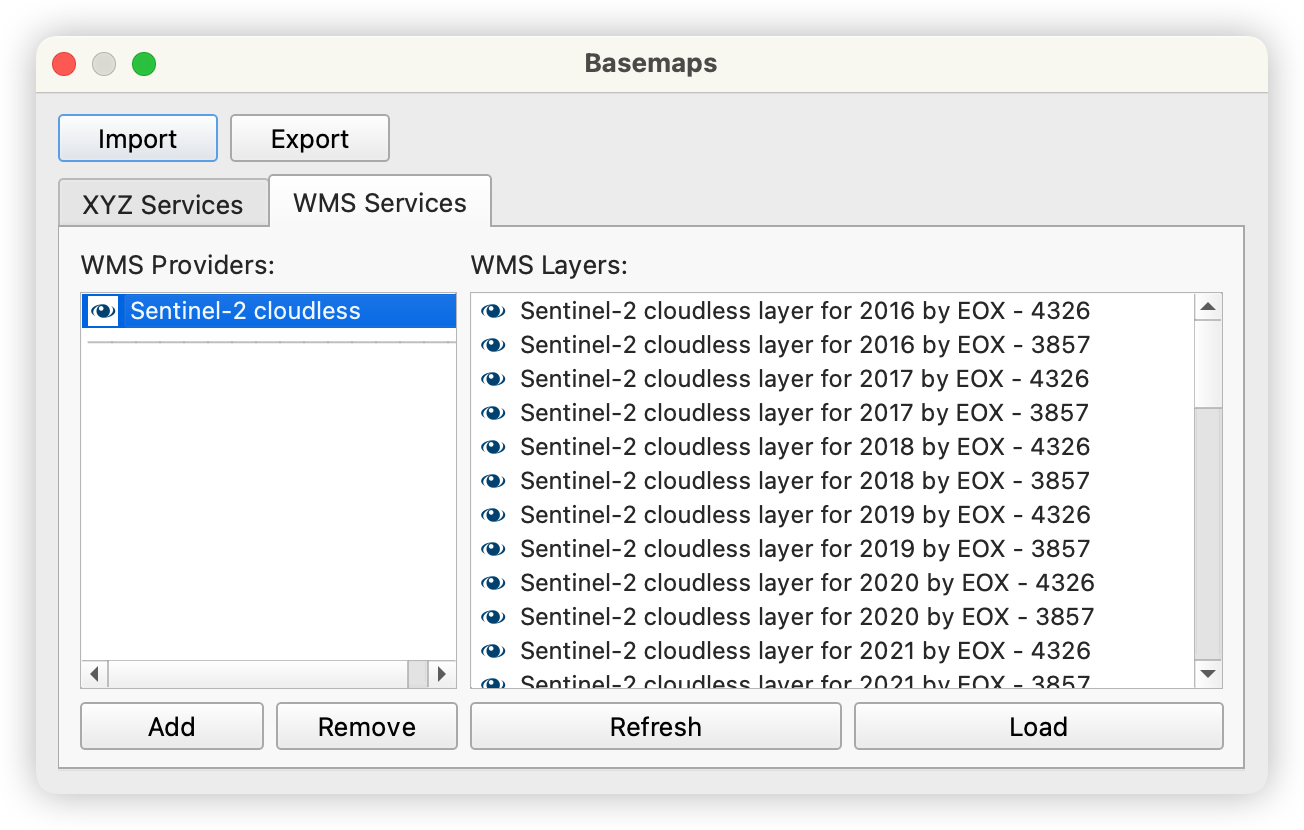
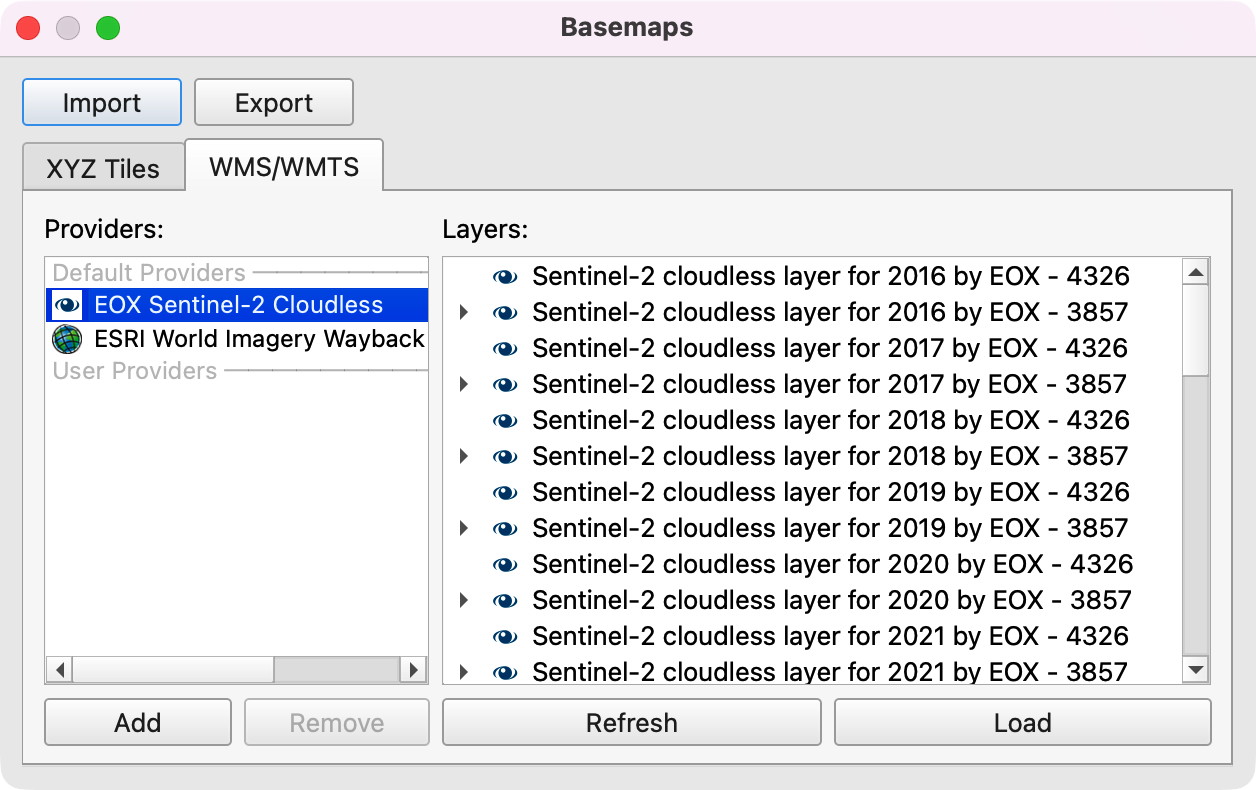
docs: Update README with enhanced feature descriptions, installation, and usage guides, and refresh associated screenshots.

Changed region(s): [[0.0, 0.0, 0.9936, 0.9722]]

diff --git a/README.md b/README.md
@@ -4,10 +4,47 @@ A QGIS plugin that provides easy access to multiple well-known online basemap se
 
 ## Features
 
+- **Pre-integrated Popular Basemap Providers**: Includes well-known basemaps such as `ESRI`, `Google Maps`, `Bing Maps`, `OpenStreetMap`, `Sentinel-2 Cloudless`, and more.
+- **Wide Compatibility**: Fully supports **QGIS 3.x** and **QGIS 4.x** versions.
+- **Multi-language Support**: Available in multiple languages including `English`, `Chinese (Simplified)`, `Japanese`, `Korean`, `French`, `German`, `Russian`, and `Arabic`.
 
-- **Pre-integrated Popular Basemap Providers**: Includes well-known basemaps such as `Sentinel-2 Cloudless`, `ESRI`, `Google Maps`, `Bing Maps`, `OpenStreetMap`, and more.
+- **Intuitive Management**: Easily add, edit, and remove custom basemap services.
+- **Import/Export Functionality**: Share your custom basemap configurations with others easily using the import/export feature (supports ZIP files).
+- **Asynchronous Loading**: Fetches WMS/WMTS capabilities in the background ensuring the UI remains responsive.
 
-- **Intuitive Basemap Management Interface**: Easily add/remove basemaps and import/export configurations with a user-friendly interface.
+
+## Installation
+
+### Via QGIS Plugin Manager (Recommended)
+1. Open QGIS.
+2. Go to `Plugins` -> `Manage and Install Plugins...`.
+3. Select the `All` tab.
+4. Search for `Basemaps`.
+5. Click `Install Plugin`.
+
+### Manual Installation
+1. Download the source code.
+2. Extract the folder to your QGIS plugins directory:
+   - **Windows**: `%APPDATA%\QGIS\QGIS3\profiles\default\python\plugins\`
+   - **macOS**: `~/Library/Application Support/QGIS/QGIS3/profiles/default/python/plugins/`
+   - **Linux**: `~/.local/share/QGIS/QGIS3/profiles/default/python/plugins/`
+
+## Usage
+
+1. **Open the Plugin** either by: 
+   - Click the **Basemaps** icon in the toolbar 
+   - or go to `Plugins` -> `Basemap Management` -> `Load Basemaps`.
+2. **Load Basemaps**: 
+   1. Browse and select a provider in `XYZ Tiles` or `WMS/WMTS` tab
+   2. Select the desired Basemaps or Layers (hold `Shift` or `Ctrl`/`Command` to select multiple), then click `Load` to add them to your project.
+3. **Manage Providers**:
+   - **Add**: Click the `Add` button to add a new custom provider.
+   - **Edit**: Right-click on a user-defined provider to edit it.
+   - **Remove**: Click the `Remove` button to remove it.
+   - **Duplicated as user provider**: Right-click on a default provider, then click `Duplicated as user provider` to duplicate it as a user provider. Then, you can edit the duplicated provider.
+4. **Import/Export**: 
+   - **Import**: Click the `Import` button to import a custom provider.
+   - **Export**: Click the `Export` button to export a custom provider.
 
 ## Screenshots
 
@@ -24,6 +61,3 @@ Contributions are welcome! If you have any ideas or suggestions, please feel fre
 - [open issues](https://github.com/Fanchengyan/Basemaps/issues)
 - [submit pull requests](https://github.com/Fanchengyan/Basemaps/pulls)
 - share other basemap services on [Discussions](https://github.com/Fanchengyan/Basemaps/discussions)
-
-
-
